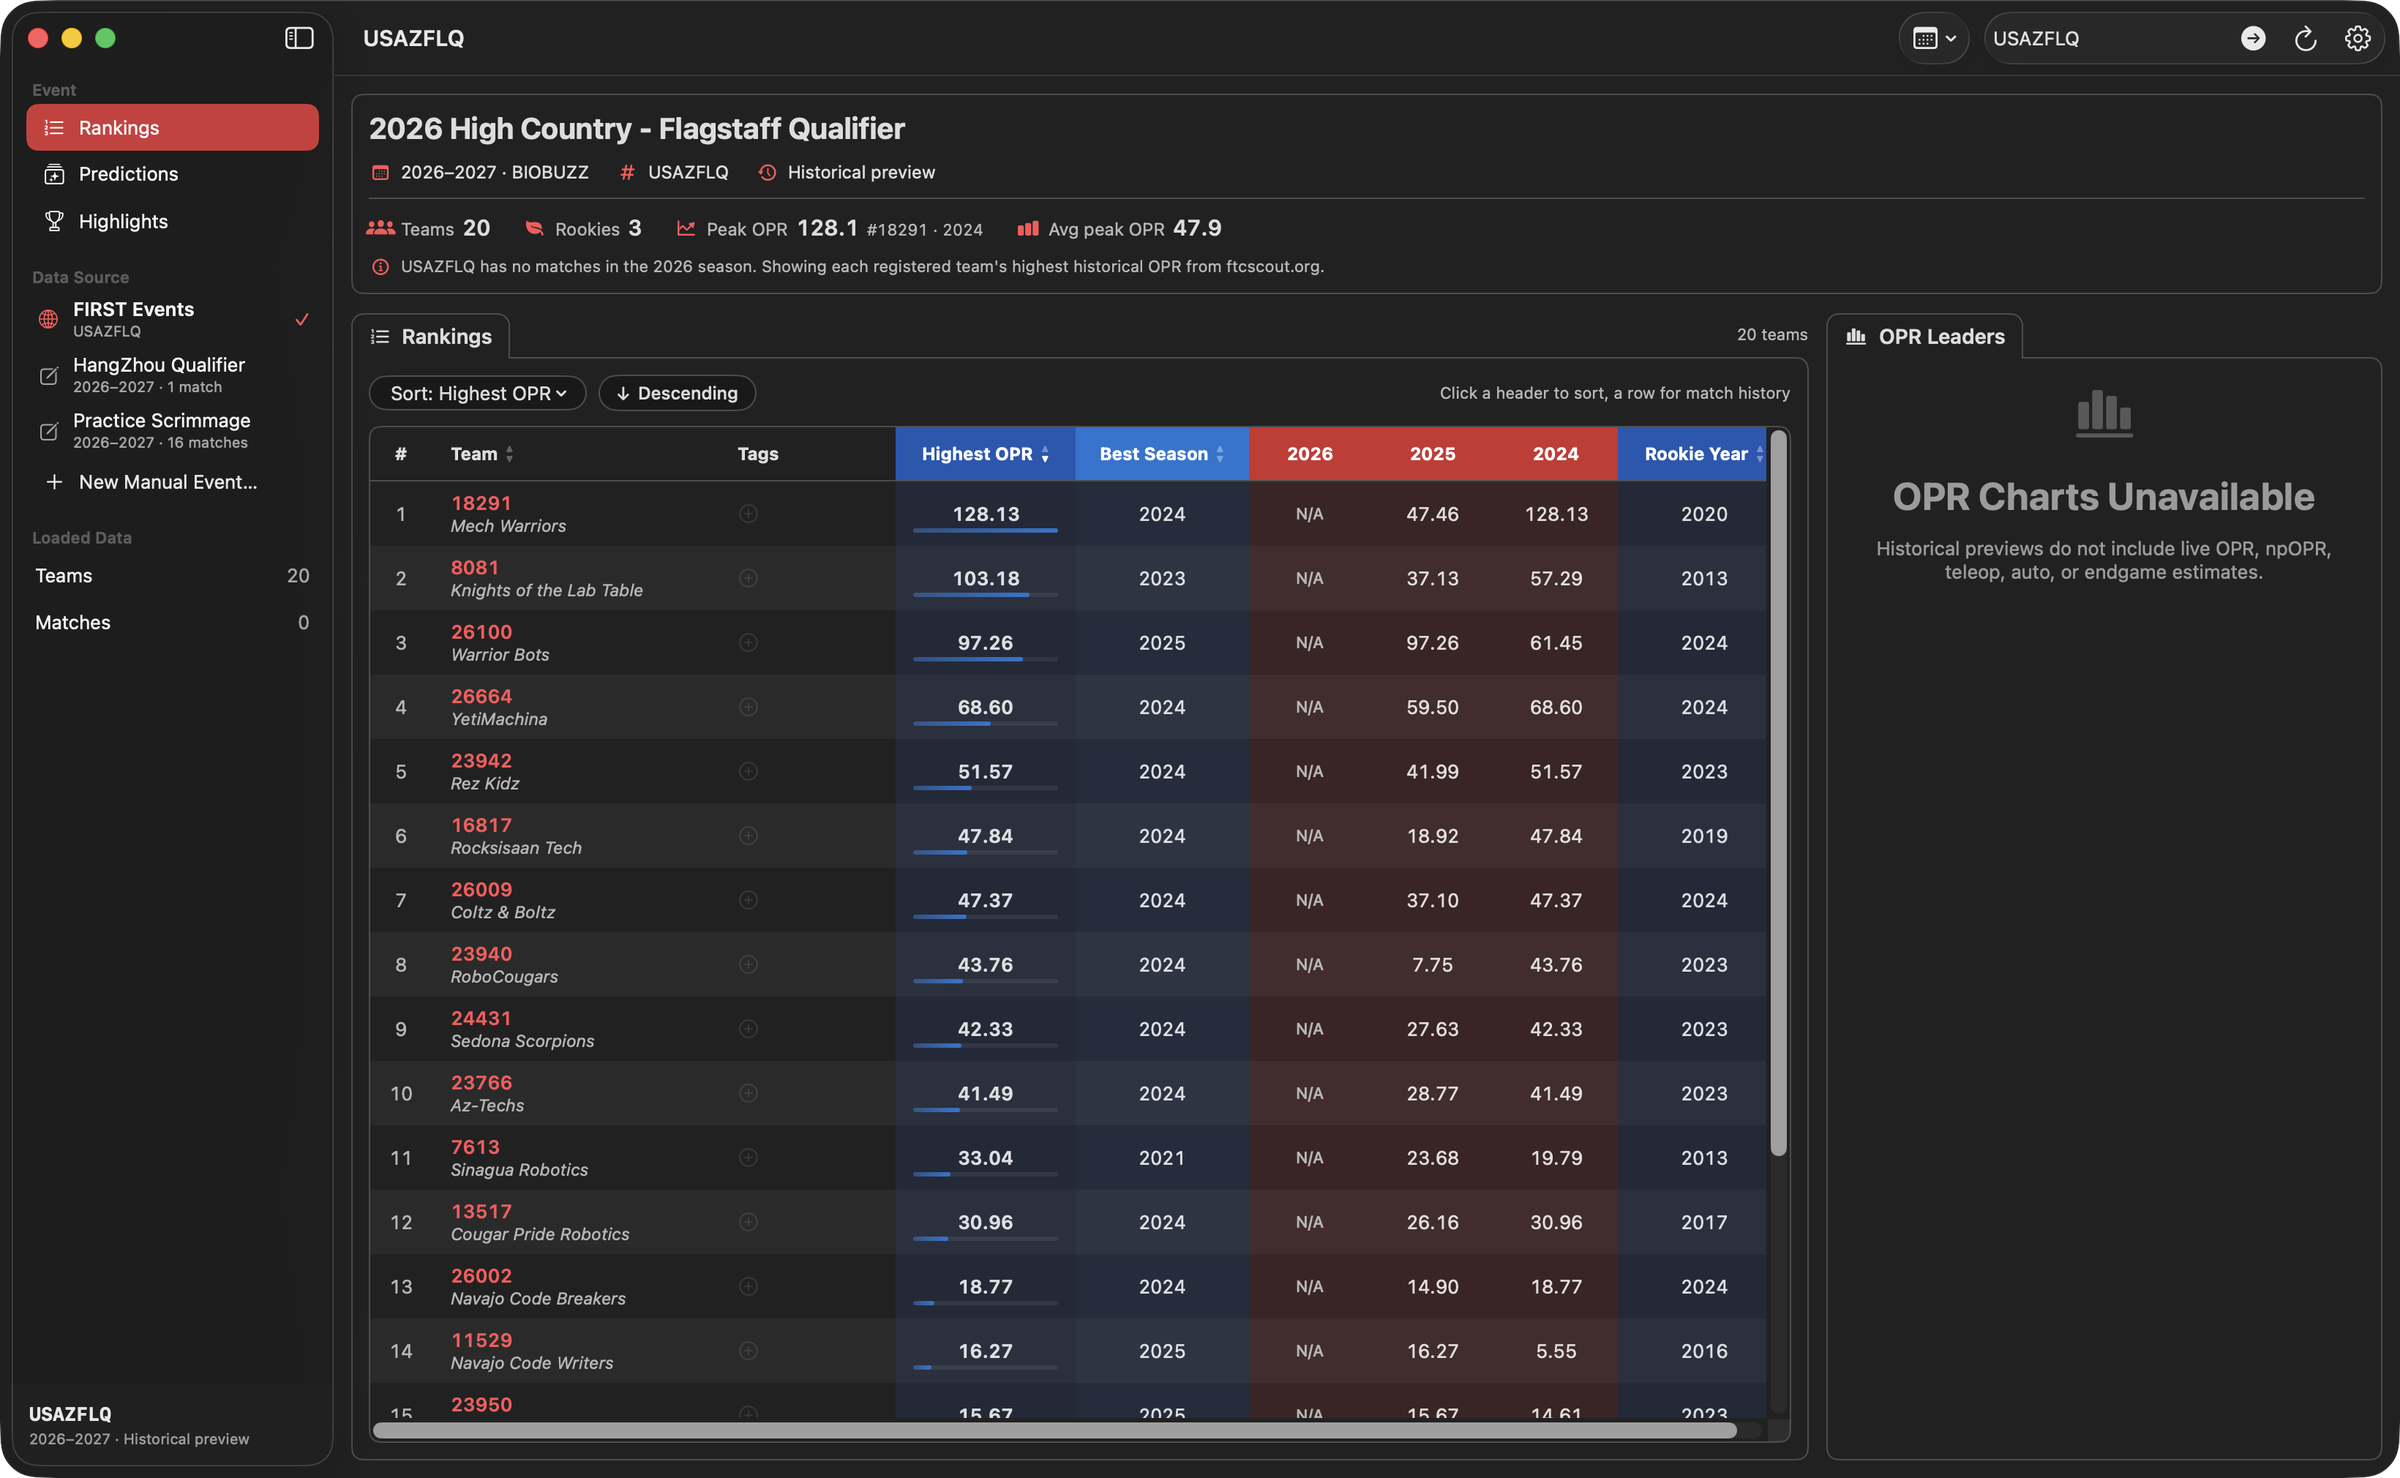
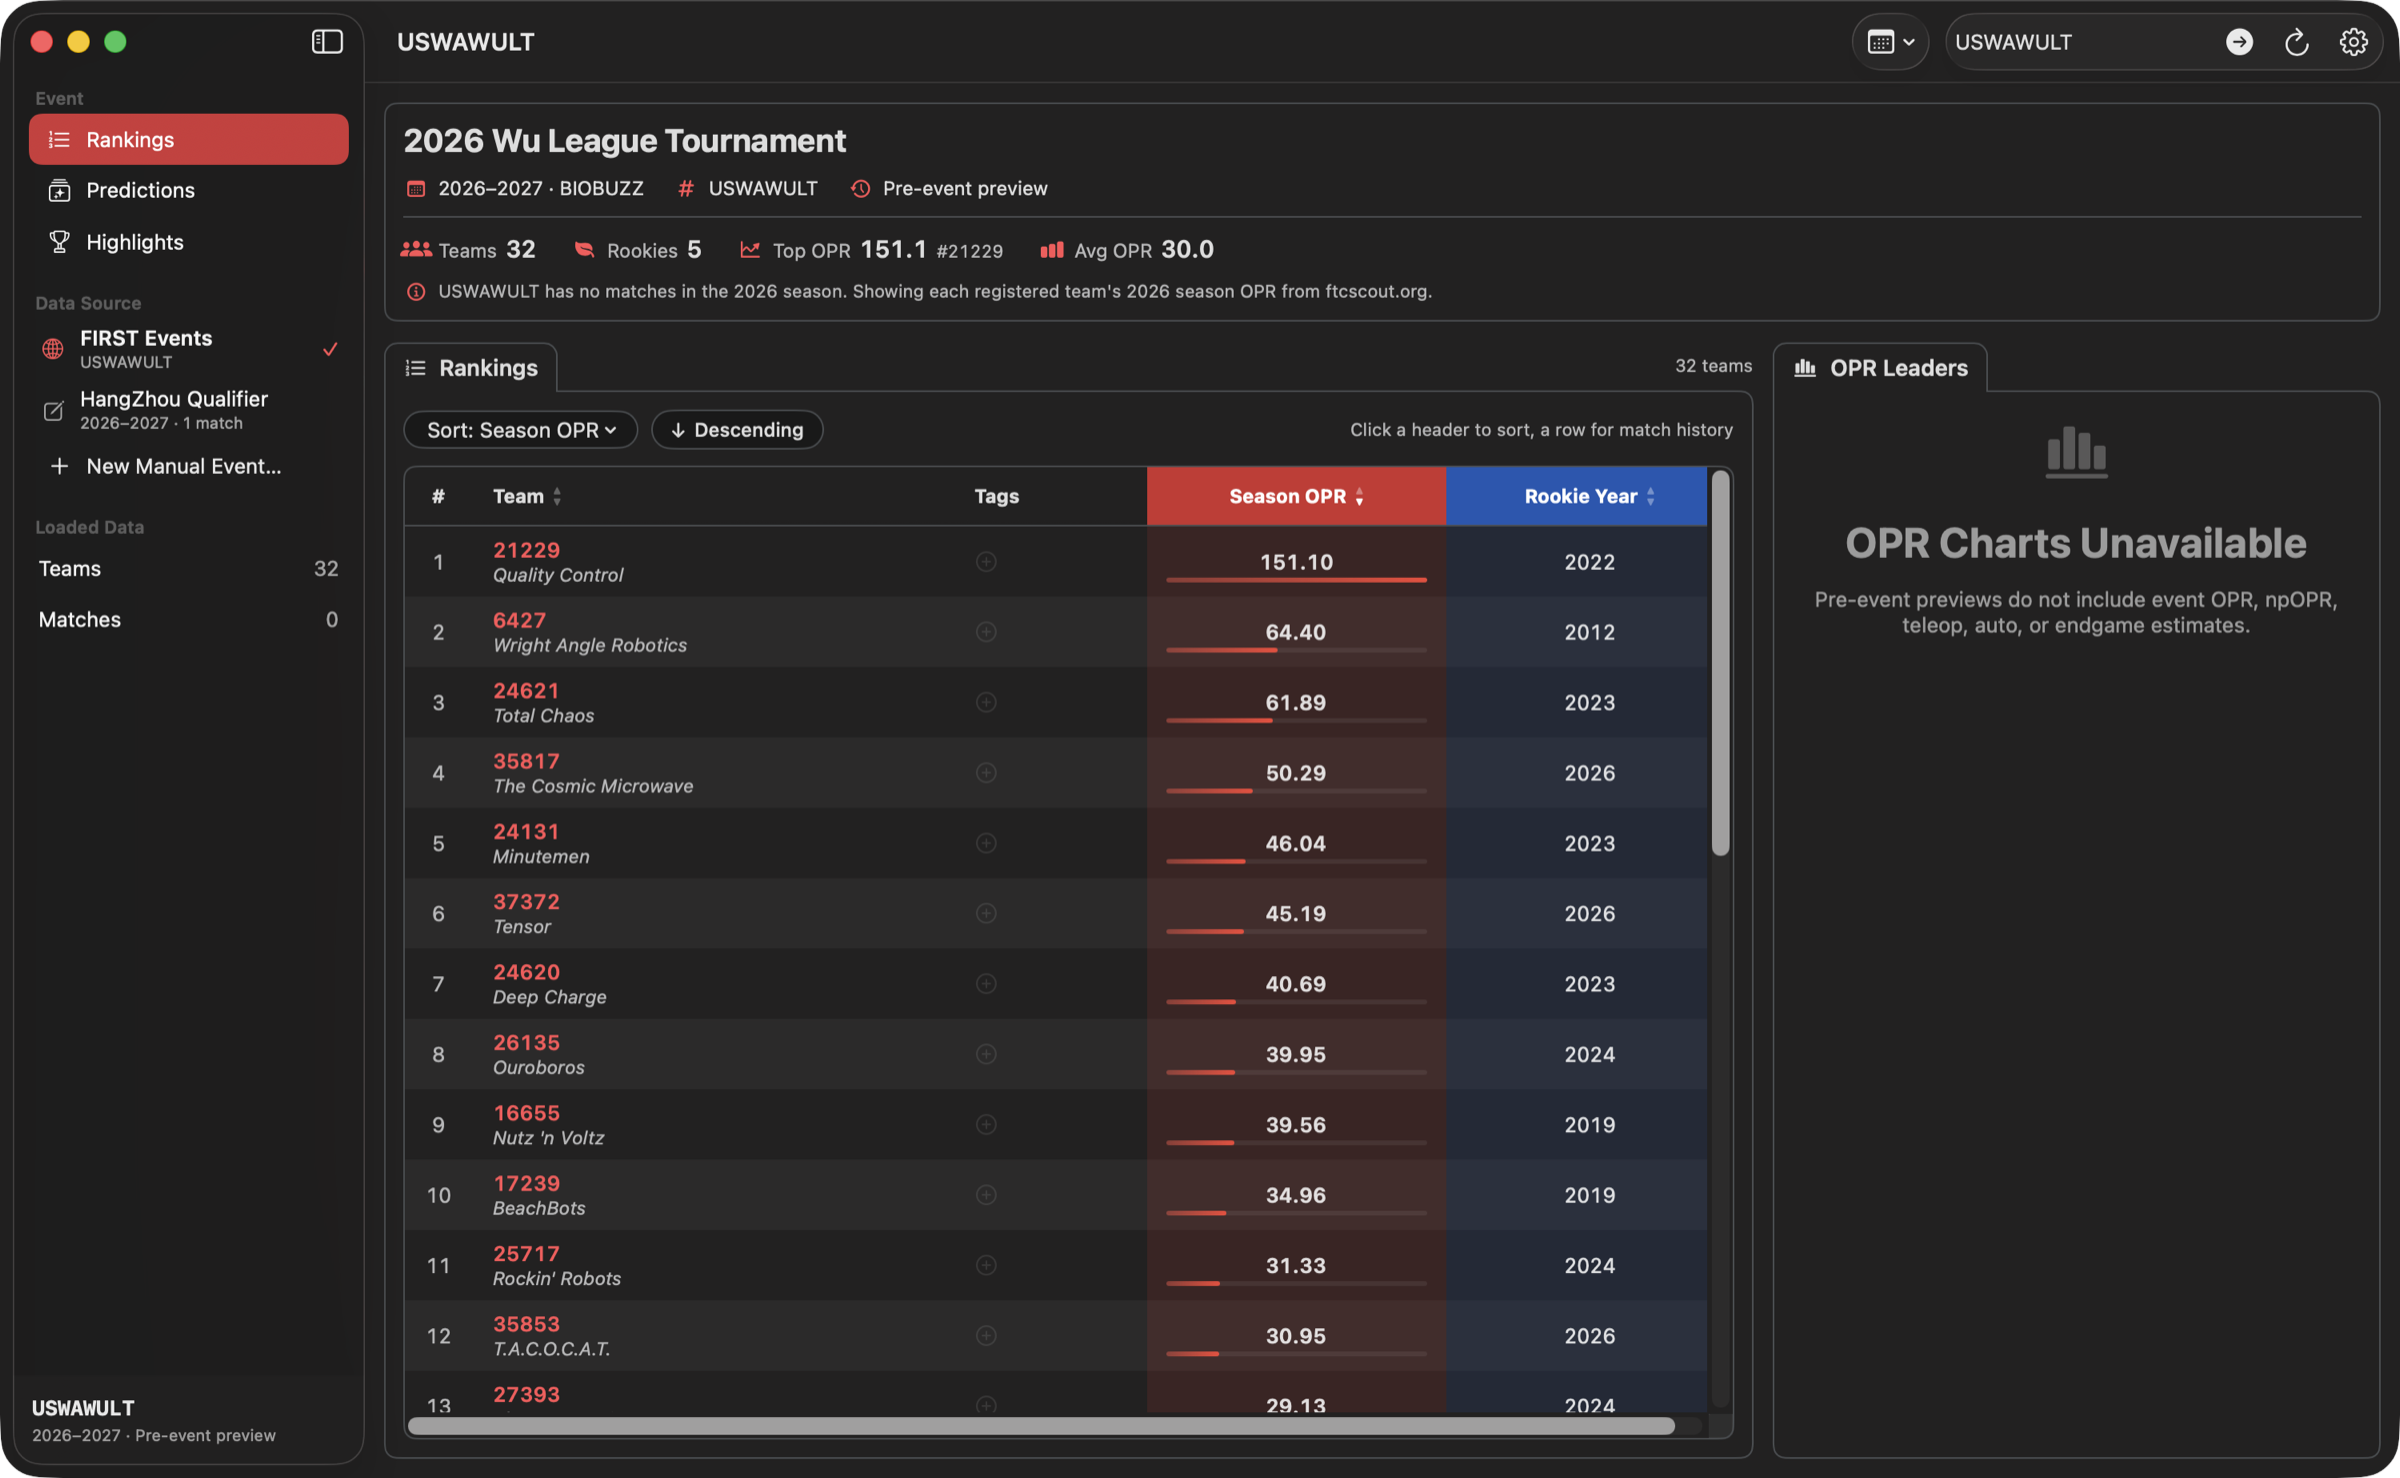
Prepare v1.0.6 release
Refresh the README screenshots of the head-to-head score breakdown and
the season-OPR pre-event preview, now shown for the Wu League
Tournament, and describe the new breakdown layout. Bump the default
version to 1.0.6, build 7.

diff --git a/README.md b/README.md
@@ -9,7 +9,7 @@
 </p>
 
 <p align="center">
-  <a href="https://github.com/Sakzyo/FTC_Event_Scout/releases/latest/download/FTC-Event-Scout-1.0.5.dmg"><img src="https://img.shields.io/badge/Download-v1.0.5-0A84FF?style=for-the-badge&logo=apple&logoColor=white" alt="Download FTC Event Scout 1.0.5 for macOS"></a>
+  <a href="https://github.com/Sakzyo/FTC_Event_Scout/releases/latest/download/FTC-Event-Scout-1.0.6.dmg"><img src="https://img.shields.io/badge/Download-v1.0.6-0A84FF?style=for-the-badge&logo=apple&logoColor=white" alt="Download FTC Event Scout 1.0.6 for macOS"></a>
 </p>
 
 <p align="center">
@@ -42,7 +42,7 @@
 
 ## Feature tour
 
-The screenshots below use the 2025–2026 DECODE event CNHAQ, a 2026–2027 BIOBUZZ preview, and a BIOBUZZ manual practice event.
+The screenshots below use the 2025–2026 DECODE event CNHAQ, a 2026–2027 BIOBUZZ pre-event preview, and a BIOBUZZ manual practice event.
 
 ### Rankings and OPR leaders
 
@@ -78,10 +78,10 @@ Click a team's row to open its match history. The top of the sheet shows the tea
 
 ### Score breakdowns
 
-Expand **Score Breakdown** under a match to compare Red and Blue by the season's own scoring categories, grouped into Auto, Teleop, Endgame, and penalties. In each numeric row the higher value is emphasized, so the swing between alliances is easy to spot. Breakdowns cover every season from SKYSTONE through BIOBUZZ.
+Expand **Score Breakdown** under a match to compare Red and Blue by the season's own scoring categories, grouped into Auto, Teleop, Endgame, and penalties. The sheet reads head to head: Red and Blue values sit on either side of a center line, and on numeric rows a bar grows toward each alliance, so the winner of every category is clear at a glance. DECODE classifier states appear as purple and green artifacts in groups of three, zeros are dimmed, and subtotals and the final score are ruled off like a paper score sheet. Breakdowns cover every season from SKYSTONE through BIOBUZZ.
 
 <p align="center">
-  <img src="docs/assets/score-breakdown.png" width="640" alt="DECODE score breakdown for qualification 4 comparing Red and Blue classified artifacts, classifier states, leave, artifact, and pattern points">
+  <img src="docs/assets/score-breakdown.png" width="640" alt="DECODE score breakdown for qualification 4 with Red and Blue values on either side of a center line, bars toward the leading alliance, and classifier states drawn as purple and green artifacts">
 </p>
 
 ### Scouting tags
@@ -123,7 +123,7 @@ You can also enter any two Red and two Blue team numbers under **Custom Match Pr
 When an event has no matches yet, loading its code shows a pre-event preview. The table lists each registered team's OPR on FTCScout from the event's season, along with its rookie year; teams that have not played yet that season show no OPR. The header counts teams and rookies and shows the top and average season OPR.
 
 <p align="center">
-  <img src="docs/assets/pre-event-preview.png" width="900" alt="Historical preview of the 2026 High Country – Flagstaff Qualifier listing 20 registered teams by highest prior-season OPR, led by team 18291 at 128.13 from 2024">
+  <img src="docs/assets/pre-event-preview.png" width="900" alt="Pre-event preview of the 2026 Wu League Tournament listing 32 registered teams by 2026 season OPR, led by team 21229 at 151.10, with 5 rookies and a 30.0 average">
 </p>
 
 ### Settings and in-app updates
@@ -224,13 +224,13 @@ OPR and OPRc are scouting estimates, not official FTC rankings. Their additive m
 ### Installation
 
 1. Use macOS 14 or later and make sure Python 3 is installed.
-2. Download the [latest release](https://github.com/Sakzyo/FTC_Event_Scout/releases/latest/download/FTC-Event-Scout-1.0.5.dmg).
+2. Download the [latest release](https://github.com/Sakzyo/FTC_Event_Scout/releases/latest/download/FTC-Event-Scout-1.0.6.dmg).
 3. Open the downloaded DMG and drag **FTC Event Scout** into **Applications**.
 4. Launch the app and enter your FIRST Events API username and token.
 
 Sparkle-enabled builds offer **FTC Event Scout → Check for Updates…** and **Settings → Updates**. Updates are signed ZIP archives installed inside the app, with an **Install and Relaunch** action. Automatic checks and installation on quit can be enabled in Settings. Version 1.0.5 is the first Sparkle-enabled release, so users of 1.0.4 or earlier need to install it manually once; later versions arrive through the in-app updater.
 
-Version 1.0.5 is ad-hoc signed and not notarized. If macOS blocks the first launch, open **System Settings → Privacy & Security** and choose **Open Anyway**.
+Version 1.0.6 is ad-hoc signed and not notarized. If macOS blocks the first launch, open **System Settings → Privacy & Security** and choose **Open Anyway**.
 
 ### Development
 
